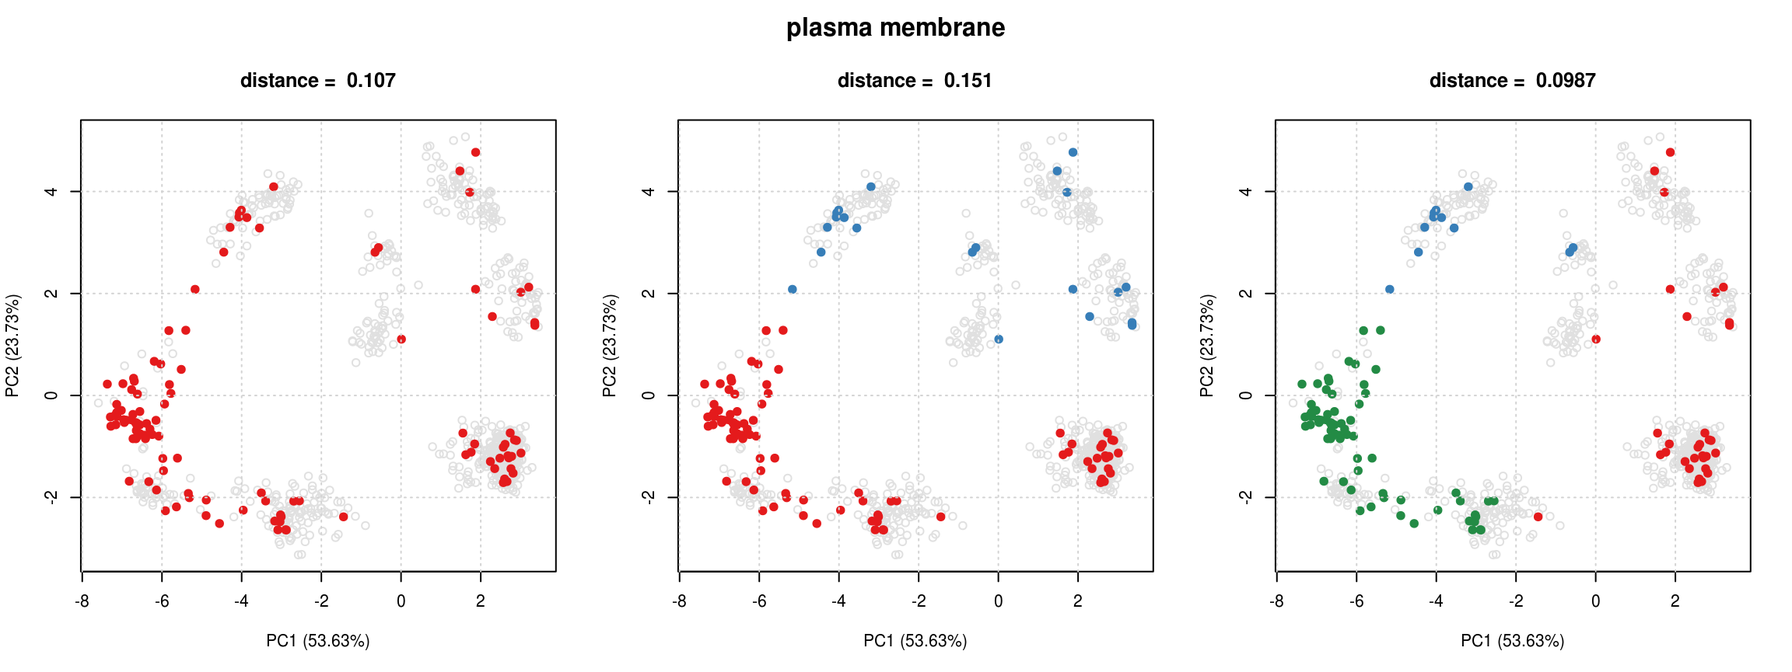
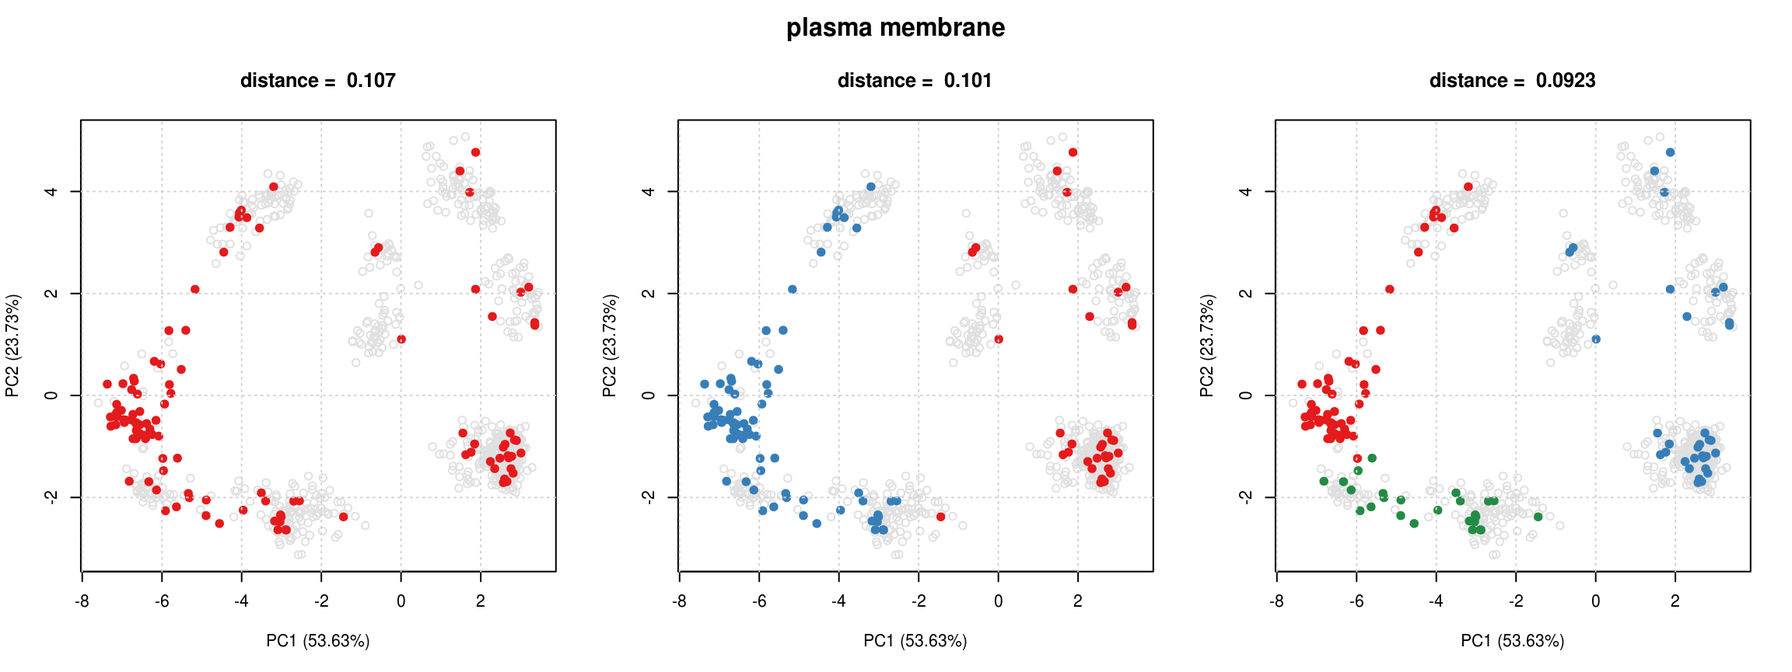
Deploy lgatto/pRoloc to github.com/lgatto/pRoloc.git:gh-pages

diff --git a/reference/plsdaClassification.html b/reference/plsdaClassification.html
@@ -194,8 +194,8 @@ from package <code>caret</code>.</p></td>
 #&gt; 
 #&gt; function (x, ...) 
 #&gt; standardGeneric("params")
-#&gt; &lt;bytecode: 0x82aed10&gt;
-#&gt; &lt;environment: 0x82a9678&gt;
+#&gt; &lt;bytecode: 0x62a3e00&gt;
+#&gt; &lt;environment: 0x62aa148&gt;
 #&gt; Methods may be defined for arguments: x
 #&gt; Use  showMethods("params")  for currently available ones.</div><div class='input'><span class='fu'><a href='https://www.rdocumentation.org/packages/graphics/topics/plot'>plot</a></span>(<span class='no'>params</span>)</div><div class='output co'>#&gt; <span class='error'>Error in (function (classes, fdef, mtable) {    methods &lt;- .findInheritedMethods(classes, fdef, mtable)    if (length(methods) == 1L)         return(methods[[1L]])    else if (length(methods) == 0L) {        cnames &lt;- paste0("\"", vapply(classes, as.character,             ""), "\"", collapse = ", ")        stop(gettextf("unable to find an inherited method for function %s for signature %s",             sQuote(fdef@generic), sQuote(cnames)), domain = NA)    }    else stop("Internal error in finding inherited methods; didn't return a unique method",         domain = NA)})(list("numeric"), new("standardGeneric", .Data = function (x,     ...) standardGeneric("params"), generic = structure("params", package = "S4Vectors"),     package = "S4Vectors", group = list(), valueClass = character(0),     signature = "x", default = NULL, skeleton = (function (x,         ...)     stop("invalid call in method dispatch to 'params' (no default method)",         domain = NA))(x, ...)), &lt;environment&gt;): unable to find an inherited method for function ‘params’ for signature ‘"numeric"’</span></div><div class='input'><span class='fu'><a href='GenRegRes-class.html'>f1Count</a></span>(<span class='no'>params</span>)</div><div class='output co'>#&gt; <span class='error'>Error in (function (classes, fdef, mtable) {    methods &lt;- .findInheritedMethods(classes, fdef, mtable)    if (length(methods) == 1L)         return(methods[[1L]])    else if (length(methods) == 0L) {        cnames &lt;- paste0("\"", vapply(classes, as.character,             ""), "\"", collapse = ", ")        stop(gettextf("unable to find an inherited method for function %s for signature %s",             sQuote(fdef@generic), sQuote(cnames)), domain = NA)    }    else stop("Internal error in finding inherited methods; didn't return a unique method",         domain = NA)})(list(structure("standardGeneric", package = "methods")), new("standardGeneric",     .Data = function (object, ...)     standardGeneric("f1Count"), generic = structure("f1Count", package = "pRoloc"),     package = "pRoloc", group = list(), valueClass = character(0),     signature = "object", default = NULL, skeleton = (function (object,         ...)     stop("invalid call in method dispatch to 'f1Count' (no default method)",         domain = NA))(object, ...)), &lt;environment&gt;): unable to find an inherited method for function ‘f1Count’ for signature ‘"standardGeneric"’</span></div><div class='input'><span class='fu'><a href='GenRegRes-class.html'>levelPlot</a></span>(<span class='no'>params</span>)</div><div class='output co'>#&gt; <span class='error'>Error in (function (classes, fdef, mtable) {    methods &lt;- .findInheritedMethods(classes, fdef, mtable)    if (length(methods) == 1L)         return(methods[[1L]])    else if (length(methods) == 0L) {        cnames &lt;- paste0("\"", vapply(classes, as.character,             ""), "\"", collapse = ", ")        stop(gettextf("unable to find an inherited method for function %s for signature %s",             sQuote(fdef@generic), sQuote(cnames)), domain = NA)    }    else stop("Internal error in finding inherited methods; didn't return a unique method",         domain = NA)})(list(structure("standardGeneric", package = "methods")), new("standardGeneric",     .Data = function (object, ...)     standardGeneric("levelPlot"), generic = structure("levelPlot", package = "pRoloc"),     package = "pRoloc", group = list(), valueClass = character(0),     signature = "object", default = NULL, skeleton = (function (object,         ...)     stop("invalid call in method dispatch to 'levelPlot' (no default method)",         domain = NA))(object, ...)), &lt;environment&gt;): unable to find an inherited method for function ‘levelPlot’ for signature ‘"standardGeneric"’</span></div><div class='input'><span class='fu'><a href='GenRegRes-class.html'>getParams</a></span>(<span class='no'>params</span>)</div><div class='output co'>#&gt; <span class='error'>Error in (function (classes, fdef, mtable) {    methods &lt;- .findInheritedMethods(classes, fdef, mtable)    if (length(methods) == 1L)         return(methods[[1L]])    else if (length(methods) == 0L) {        cnames &lt;- paste0("\"", vapply(classes, as.character,             ""), "\"", collapse = ", ")        stop(gettextf("unable to find an inherited method for function %s for signature %s",             sQuote(fdef@generic), sQuote(cnames)), domain = NA)    }    else stop("Internal error in finding inherited methods; didn't return a unique method",         domain = NA)})(list(structure("standardGeneric", package = "methods")), new("standardGeneric",     .Data = function (object, ...)     standardGeneric("getParams"), generic = structure("getParams", package = "pRoloc"),     package = "pRoloc", group = list(), valueClass = character(0),     signature = "object", default = NULL, skeleton = (function (object,         ...)     stop("invalid call in method dispatch to 'getParams' (no default method)",         domain = NA))(object, ...)), &lt;environment&gt;): unable to find an inherited method for function ‘getParams’ for signature ‘"standardGeneric"’</span></div><div class='input'><span class='no'>res</span> <span class='kw'>&lt;-</span> <span class='fu'>plsdaClassification</span>(<span class='no'>dunkley2006</span>, <span class='no'>params</span>)</div><div class='output co'>#&gt; <span class='error'>Error in (function (classes, fdef, mtable) {    methods &lt;- .findInheritedMethods(classes, fdef, mtable)    if (length(methods) == 1L)         return(methods[[1L]])    else if (length(methods) == 0L) {        cnames &lt;- paste0("\"", vapply(classes, as.character,             ""), "\"", collapse = ", ")        stop(gettextf("unable to find an inherited method for function %s for signature %s",             sQuote(fdef@generic), sQuote(cnames)), domain = NA)    }    else stop("Internal error in finding inherited methods; didn't return a unique method",         domain = NA)})(list(structure("standardGeneric", package = "methods")), new("standardGeneric",     .Data = function (object, ...)     standardGeneric("getParams"), generic = structure("getParams", package = "pRoloc"),     package = "pRoloc", group = list(), valueClass = character(0),     signature = "object", default = NULL, skeleton = (function (object,         ...)     stop("invalid call in method dispatch to 'getParams' (no default method)",         domain = NA))(object, ...)), &lt;environment&gt;): unable to find an inherited method for function ‘getParams’ for signature ‘"standardGeneric"’</span></div><div class='input'><span class='fu'><a href='getPredictions.html'>getPredictions</a></span>(<span class='no'>res</span>, <span class='kw'>fcol</span> <span class='kw'>=</span> <span class='st'>"plsda"</span>)</div><div class='output co'>#&gt; <span class='error'>Error in fData(object): object 'res' not found</span></div><div class='input'><span class='fu'><a href='getPredictions.html'>getPredictions</a></span>(<span class='no'>res</span>, <span class='kw'>fcol</span> <span class='kw'>=</span> <span class='st'>"plsda"</span>, <span class='kw'>t</span> <span class='kw'>=</span> <span class='fl'>0.9</span>)</div><div class='output co'>#&gt; <span class='error'>Error in fData(object): object 'res' not found</span></div><div class='input'><span class='fu'><a href='plot2D.html'>plot2D</a></span>(<span class='no'>res</span>, <span class='kw'>fcol</span> <span class='kw'>=</span> <span class='st'>"plsda"</span>)</div><div class='output co'>#&gt; <span class='error'>Error in plot2D(res, fcol = "plsda"): object 'res' not found</span></div></pre>
   </div>

diff --git a/articles/v01-pRoloc-tutorial.html b/articles/v01-pRoloc-tutorial.html
@@ -306,7 +306,7 @@ document.addEventListener("DOMContentLoaded", function() {
 ## experimentData: use 'experimentData(object)'
 ## Annotation:  
 ## - - - Processing information - - -
-## Quantitation data loaded: Fri Nov 30 18:18:31 2018  using readMSnSet. 
+## Quantitation data loaded: Fri Nov 30 18:25:26 2018  using readMSnSet. 
 ##  MSnbase version: 2.9.1</code></pre>
 </div>
 </div>
@@ -466,8 +466,8 @@ document.addEventListener("DOMContentLoaded", function() {
 <pre><code>## - - - Processing information - - -
 ## Data loaded: Wed May 11 18:54:39 2011 
 ## Updated from version 0.3.0 to 0.3.1 [Fri Jul  8 20:23:25 2016] 
-## iTRAQ4 quantification by trapezoidation: Fri Nov 30 18:18:33 2018 
-## Normalised (sum): Fri Nov 30 18:18:33 2018 
+## iTRAQ4 quantification by trapezoidation: Fri Nov 30 18:25:28 2018 
+## Normalised (sum): Fri Nov 30 18:25:28 2018 
 ##  MSnbase version: 1.1.22</code></pre>
 <div class="sourceCode" id="cb46"><pre class="sourceCode r"><code class="sourceCode r"><a class="sourceLine" id="cb46-1" data-line-number="1"><span class="kw"><a href="https://www.rdocumentation.org/packages/utils/topics/head">head</a></span>(<span class="kw">exprs</span>(itraqnorm), <span class="dt">n =</span> <span class="dv">3</span>)</a></code></pre></div>
 <pre><code>##     iTRAQ4.114 iTRAQ4.115 iTRAQ4.116 iTRAQ4.117
@@ -749,7 +749,7 @@ Assessing parameter optimisation. On the left, we see the respective distributio
 <a class="sourceLine" id="cb86-4" data-line-number="4"><span class="kw"><a href="https://www.rdocumentation.org/packages/MSnbase/topics/pSet-class">processingData</a></span>(svmres)</a></code></pre></div>
 <pre><code>## - - - Processing information - - -
 ## Added markers from  'mrk' marker vector. Thu Jul 16 22:53:44 2015 
-## Performed svm prediction (sigma=0.1 cost=0.5) Fri Nov 30 18:18:39 2018 
+## Performed svm prediction (sigma=0.1 cost=0.5) Fri Nov 30 18:25:34 2018 
 ##  MSnbase version: 1.17.12</code></pre>
 <div class="sourceCode" id="cb88"><pre class="sourceCode r"><code class="sourceCode r"><a class="sourceLine" id="cb88-1" data-line-number="1"><span class="kw"><a href="https://www.rdocumentation.org/packages/utils/topics/head">tail</a></span>(<span class="kw">fvarLabels</span>(svmres), <span class="dv">4</span>)</a></code></pre></div>
 <pre><code>## [1] "markers"    "markers.tl" "svm"        "svm.scores"</code></pre>
@@ -851,8 +851,8 @@ Organelle-specific SVM score distributions.
 ## Annotation:  
 ## - - - Processing information - - -
 ## Added markers from  'mrk' marker vector. Thu Jul 16 22:53:44 2015 
-## Performed svm prediction (sigma=0.1 cost=0.5) Fri Nov 30 18:18:39 2018 
-## Added svm predictions according to thresholds: ER = 0.84, Golgi = 0.63, mitochondrion = 0.75, PM = 0.76 Fri Nov 30 18:18:39 2018 
+## Performed svm prediction (sigma=0.1 cost=0.5) Fri Nov 30 18:25:34 2018 
+## Added svm predictions according to thresholds: ER = 0.84, Golgi = 0.63, mitochondrion = 0.75, PM = 0.76 Fri Nov 30 18:25:35 2018 
 ##  MSnbase version: 1.17.12</code></pre>
 <p>We can now visualise these results using the plotting functions presented in section @ref(sec:usml), as shown on figure @ref(fig:svmres). We clearly see that besides the organelle marker clusters that have been assigned high confidence members, many other proteins have substantially lower prediction scores.</p>
 <div class="sourceCode" id="cb102"><pre class="sourceCode r"><code class="sourceCode r"><a class="sourceLine" id="cb102-1" data-line-number="1">ptsze &lt;-<span class="st"> </span><span class="kw"><a href="https://www.rdocumentation.org/packages/base/topics/Log">exp</a></span>(<span class="kw">fData</span>(svmres)<span class="op">$</span>svm.scores) <span class="op">-</span><span class="st"> </span><span class="dv">1</span></a>

diff --git a/reference/getPredictions.html b/reference/getPredictions.html
@@ -225,8 +225,8 @@ thresholds.</p></div>
 #&gt; Loaded on Thu Jul 16 22:53:08 2015. 
 #&gt; Normalised to sum of intensities. 
 #&gt; Added markers from  'mrk' marker vector. Thu Jul 16 22:53:08 2015 
-#&gt; Performed svm prediction (cost=0.5 sigma=0.1) Fri Nov 30 18:17:11 2018 
-#&gt; Added svm predictions according to global threshold = 0 Fri Nov 30 18:17:11 2018 
+#&gt; Performed svm prediction (cost=0.5 sigma=0.1) Fri Nov 30 18:24:05 2018 
+#&gt; Added svm predictions according to global threshold = 0 Fri Nov 30 18:24:05 2018 
 #&gt;  MSnbase version: 1.17.12 </div><div class='input'><span class='fu'>getPredictions</span>(<span class='no'>res</span>, <span class='kw'>fcol</span> <span class='kw'>=</span> <span class='st'>"svm"</span>, <span class='kw'>t</span> <span class='kw'>=</span> <span class='fl'>.9</span>) <span class='co'>## single threshold </span></div><div class='output co'>#&gt; ans
 #&gt;      ER lumen   ER membrane         Golgi Mitochondrion       Plastid 
 #&gt;            14            56            28            55            20 
@@ -250,8 +250,8 @@ thresholds.</p></div>
 #&gt; Loaded on Thu Jul 16 22:53:08 2015. 
 #&gt; Normalised to sum of intensities. 
 #&gt; Added markers from  'mrk' marker vector. Thu Jul 16 22:53:08 2015 
-#&gt; Performed svm prediction (cost=0.5 sigma=0.1) Fri Nov 30 18:17:11 2018 
-#&gt; Added svm predictions according to global threshold = 0.9 Fri Nov 30 18:17:11 2018 
+#&gt; Performed svm prediction (cost=0.5 sigma=0.1) Fri Nov 30 18:24:05 2018 
+#&gt; Added svm predictions according to global threshold = 0.9 Fri Nov 30 18:24:05 2018 
 #&gt;  MSnbase version: 1.17.12 </div><div class='input'><span class='co'>## 50% top predictions per class</span>
 <span class='no'>ts</span> <span class='kw'>&lt;-</span> <span class='fu'><a href='orgQuants.html'>orgQuants</a></span>(<span class='no'>res</span>, <span class='kw'>fcol</span> <span class='kw'>=</span> <span class='st'>"svm"</span>, <span class='kw'>t</span> <span class='kw'>=</span> <span class='fl'>.5</span>)</div><div class='output co'>#&gt;      ER lumen   ER membrane         Golgi Mitochondrion       Plastid 
 #&gt;     0.2995766     0.8368847     0.7805362     0.7484314     0.7746137 
@@ -279,8 +279,8 @@ thresholds.</p></div>
 #&gt; Loaded on Thu Jul 16 22:53:08 2015. 
 #&gt; Normalised to sum of intensities. 
 #&gt; Added markers from  'mrk' marker vector. Thu Jul 16 22:53:08 2015 
-#&gt; Performed svm prediction (cost=0.5 sigma=0.1) Fri Nov 30 18:17:11 2018 
-#&gt; Added svm predictions according to thresholds: ER lumen = 0.30, ER membrane = 0.84, Golgi = 0.78, Mitochondrion = 0.75, Plastid = 0.77, PM = 0.73, Ribosome = 0.54, TGN = 0.53, vacuole = 0.57 Fri Nov 30 18:17:11 2018 
+#&gt; Performed svm prediction (cost=0.5 sigma=0.1) Fri Nov 30 18:24:05 2018 
+#&gt; Added svm predictions according to thresholds: ER lumen = 0.30, ER membrane = 0.84, Golgi = 0.78, Mitochondrion = 0.75, Plastid = 0.77, PM = 0.73, Ribosome = 0.54, TGN = 0.53, vacuole = 0.57 Fri Nov 30 18:24:05 2018 
 #&gt;  MSnbase version: 1.17.12 </div></pre>
   </div>
   <div class="col-md-3 hidden-xs hidden-sm" id="sidebar">

diff --git a/reference/perTurboClassification.html b/reference/perTurboClassification.html
@@ -258,8 +258,8 @@ Default is <code>markers</code>.</p></td>
 #&gt; Loaded on Thu Jul 16 22:53:08 2015. 
 #&gt; Normalised to sum of intensities. 
 #&gt; Added markers from  'mrk' marker vector. Thu Jul 16 22:53:08 2015 
-#&gt; Performed perTurbo prediction (sigma=0.1 pRegul=4) Fri Nov 30 18:17:55 2018 
-#&gt; Added perTurbo predictions according to global threshold = 0 Fri Nov 30 18:17:55 2018 
+#&gt; Performed perTurbo prediction (sigma=0.1 pRegul=4) Fri Nov 30 18:24:51 2018 
+#&gt; Added perTurbo predictions according to global threshold = 0 Fri Nov 30 18:24:51 2018 
 #&gt;  MSnbase version: 1.17.12 </div><div class='input'><span class='fu'><a href='getPredictions.html'>getPredictions</a></span>(<span class='no'>res</span>, <span class='kw'>fcol</span> <span class='kw'>=</span> <span class='st'>"perTurbo"</span>, <span class='kw'>t</span> <span class='kw'>=</span> <span class='fl'>0.75</span>)</div><div class='output co'>#&gt; ans
 #&gt;      ER lumen   ER membrane         Golgi Mitochondrion       Plastid 
 #&gt;            14            45            28            55            20 
@@ -283,8 +283,8 @@ Default is <code>markers</code>.</p></td>
 #&gt; Loaded on Thu Jul 16 22:53:08 2015. 
 #&gt; Normalised to sum of intensities. 
 #&gt; Added markers from  'mrk' marker vector. Thu Jul 16 22:53:08 2015 
-#&gt; Performed perTurbo prediction (sigma=0.1 pRegul=4) Fri Nov 30 18:17:55 2018 
-#&gt; Added perTurbo predictions according to global threshold = 0.75 Fri Nov 30 18:17:55 2018 
+#&gt; Performed perTurbo prediction (sigma=0.1 pRegul=4) Fri Nov 30 18:24:51 2018 
+#&gt; Added perTurbo predictions according to global threshold = 0.75 Fri Nov 30 18:24:51 2018 
 #&gt;  MSnbase version: 1.17.12 </div><div class='input'><span class='fu'><a href='plot2D.html'>plot2D</a></span>(<span class='no'>res</span>, <span class='kw'>fcol</span> <span class='kw'>=</span> <span class='st'>"perTurbo"</span>)</div><div class='img'><img src='perTurboClassification-3.png' alt='' width='700' height='433' /></div></pre>
   </div>
   <div class="col-md-3 hidden-xs hidden-sm" id="sidebar">

diff --git a/reference/nbClassification.html b/reference/nbClassification.html
@@ -225,8 +225,8 @@ Default is <code>markers</code>.</p></td>
 #&gt; Loaded on Thu Jul 16 22:53:08 2015. 
 #&gt; Normalised to sum of intensities. 
 #&gt; Added markers from  'mrk' marker vector. Thu Jul 16 22:53:08 2015 
-#&gt; Performed naiveBayes prediction (laplace=5) Fri Nov 30 18:17:37 2018 
-#&gt; Added naiveBayes predictions according to global threshold = 0 Fri Nov 30 18:17:37 2018 
+#&gt; Performed naiveBayes prediction (laplace=5) Fri Nov 30 18:24:34 2018 
+#&gt; Added naiveBayes predictions according to global threshold = 0 Fri Nov 30 18:24:34 2018 
 #&gt;  MSnbase version: 1.17.12 </div><div class='input'><span class='fu'><a href='getPredictions.html'>getPredictions</a></span>(<span class='no'>res</span>, <span class='kw'>fcol</span> <span class='kw'>=</span> <span class='st'>"naiveBayes"</span>, <span class='kw'>t</span> <span class='kw'>=</span> <span class='fl'>1</span>)</div><div class='output co'>#&gt; ans
 #&gt;      ER lumen   ER membrane         Golgi Mitochondrion       Plastid 
 #&gt;            14            45            69            61            43 
@@ -250,8 +250,8 @@ Default is <code>markers</code>.</p></td>
 #&gt; Loaded on Thu Jul 16 22:53:08 2015. 
 #&gt; Normalised to sum of intensities. 
 #&gt; Added markers from  'mrk' marker vector. Thu Jul 16 22:53:08 2015 
-#&gt; Performed naiveBayes prediction (laplace=5) Fri Nov 30 18:17:37 2018 
-#&gt; Added naiveBayes predictions according to global threshold = 1 Fri Nov 30 18:17:37 2018 
+#&gt; Performed naiveBayes prediction (laplace=5) Fri Nov 30 18:24:34 2018 
+#&gt; Added naiveBayes predictions according to global threshold = 1 Fri Nov 30 18:24:34 2018 
 #&gt;  MSnbase version: 1.17.12 </div><div class='input'><span class='fu'><a href='plot2D.html'>plot2D</a></span>(<span class='no'>res</span>, <span class='kw'>fcol</span> <span class='kw'>=</span> <span class='st'>"naiveBayes"</span>)</div><div class='img'><img src='nbClassification-3.png' alt='' width='700' height='433' /></div></pre>
   </div>
   <div class="col-md-3 hidden-xs hidden-sm" id="sidebar">

diff --git a/reference/nnetClassification.html b/reference/nnetClassification.html
@@ -246,8 +246,8 @@ package <code>nnet</code>.</p></td>
 #&gt; Loaded on Thu Jul 16 22:53:08 2015. 
 #&gt; Normalised to sum of intensities. 
 #&gt; Added markers from  'mrk' marker vector. Thu Jul 16 22:53:08 2015 
-#&gt; Performed nnet prediction (decay=1e-05 size=10) Fri Nov 30 18:17:44 2018 
-#&gt; Added nnet predictions according to global threshold = 0 Fri Nov 30 18:17:44 2018 
+#&gt; Performed nnet prediction (decay=1e-05 size=10) Fri Nov 30 18:24:40 2018 
+#&gt; Added nnet predictions according to global threshold = 0 Fri Nov 30 18:24:40 2018 
 #&gt;  MSnbase version: 1.17.12 </div><div class='input'><span class='fu'><a href='getPredictions.html'>getPredictions</a></span>(<span class='no'>res</span>, <span class='kw'>fcol</span> <span class='kw'>=</span> <span class='st'>"nnet"</span>, <span class='kw'>t</span> <span class='kw'>=</span> <span class='fl'>0.75</span>)</div><div class='output co'>#&gt; ans
 #&gt;      ER lumen   ER membrane         Golgi Mitochondrion       Plastid 
 #&gt;            27           168            94           107            50 
@@ -271,8 +271,8 @@ package <code>nnet</code>.</p></td>
 #&gt; Loaded on Thu Jul 16 22:53:08 2015. 
 #&gt; Normalised to sum of intensities. 
 #&gt; Added markers from  'mrk' marker vector. Thu Jul 16 22:53:08 2015 
-#&gt; Performed nnet prediction (decay=1e-05 size=10) Fri Nov 30 18:17:44 2018 
-#&gt; Added nnet predictions according to global threshold = 0.75 Fri Nov 30 18:17:44 2018 
+#&gt; Performed nnet prediction (decay=1e-05 size=10) Fri Nov 30 18:24:40 2018 
+#&gt; Added nnet predictions according to global threshold = 0.75 Fri Nov 30 18:24:40 2018 
 #&gt;  MSnbase version: 1.17.12 </div><div class='input'><span class='fu'><a href='plot2D.html'>plot2D</a></span>(<span class='no'>res</span>, <span class='kw'>fcol</span> <span class='kw'>=</span> <span class='st'>"nnet"</span>)</div><div class='img'><img src='nnetClassification-3.png' alt='' width='700' height='433' /></div></pre>
   </div>
   <div class="col-md-3 hidden-xs hidden-sm" id="sidebar">

diff --git a/reference/rfClassification.html b/reference/rfClassification.html
@@ -225,8 +225,8 @@ Default is <code>markers</code>.</p></td>
 #&gt; Loaded on Thu Jul 16 22:53:08 2015. 
 #&gt; Normalised to sum of intensities. 
 #&gt; Added markers from  'mrk' marker vector. Thu Jul 16 22:53:08 2015 
-#&gt; Performed random forest prediction (mtry=5) Fri Nov 30 18:18:10 2018 
-#&gt; Added rf predictions according to global threshold = 0 Fri Nov 30 18:18:10 2018 
+#&gt; Performed random forest prediction (mtry=5) Fri Nov 30 18:25:06 2018 
+#&gt; Added rf predictions according to global threshold = 0 Fri Nov 30 18:25:06 2018 
 #&gt;  MSnbase version: 1.17.12 </div><div class='input'><span class='fu'><a href='getPredictions.html'>getPredictions</a></span>(<span class='no'>res</span>, <span class='kw'>fcol</span> <span class='kw'>=</span> <span class='st'>"rf"</span>, <span class='kw'>t</span> <span class='kw'>=</span> <span class='fl'>0.75</span>)</div><div class='output co'>#&gt; ans
 #&gt;      ER lumen   ER membrane         Golgi Mitochondrion       Plastid 
 #&gt;            14           150            78            92            47 
@@ -250,8 +250,8 @@ Default is <code>markers</code>.</p></td>
 #&gt; Loaded on Thu Jul 16 22:53:08 2015. 
 #&gt; Normalised to sum of intensities. 
 #&gt; Added markers from  'mrk' marker vector. Thu Jul 16 22:53:08 2015 
-#&gt; Performed random forest prediction (mtry=5) Fri Nov 30 18:18:10 2018 
-#&gt; Added rf predictions according to global threshold = 0.75 Fri Nov 30 18:18:10 2018 
+#&gt; Performed random forest prediction (mtry=5) Fri Nov 30 18:25:06 2018 
+#&gt; Added rf predictions according to global threshold = 0.75 Fri Nov 30 18:25:06 2018 
 #&gt;  MSnbase version: 1.17.12 </div><div class='input'><span class='fu'><a href='plot2D.html'>plot2D</a></span>(<span class='no'>res</span>, <span class='kw'>fcol</span> <span class='kw'>=</span> <span class='st'>"rf"</span>)</div><div class='img'><img src='rfClassification-3.png' alt='' width='700' height='433' /></div></pre>
   </div>
   <div class="col-md-3 hidden-xs hidden-sm" id="sidebar">

diff --git a/reference/svmClassification.html b/reference/svmClassification.html
@@ -231,8 +231,8 @@ package <code>e1071</code>.</p></td>
 #&gt; Loaded on Thu Jul 16 22:53:08 2015. 
 #&gt; Normalised to sum of intensities. 
 #&gt; Added markers from  'mrk' marker vector. Thu Jul 16 22:53:08 2015 
-#&gt; Performed svm prediction (sigma=0.1 cost=1) Fri Nov 30 18:18:15 2018 
-#&gt; Added svm predictions according to global threshold = 0 Fri Nov 30 18:18:15 2018 
+#&gt; Performed svm prediction (sigma=0.1 cost=1) Fri Nov 30 18:25:12 2018 
+#&gt; Added svm predictions according to global threshold = 0 Fri Nov 30 18:25:12 2018 
 #&gt;  MSnbase version: 1.17.12 </div><div class='input'><span class='fu'><a href='getPredictions.html'>getPredictions</a></span>(<span class='no'>res</span>, <span class='kw'>fcol</span> <span class='kw'>=</span> <span class='st'>"svm"</span>, <span class='kw'>t</span> <span class='kw'>=</span> <span class='fl'>0.75</span>)</div><div class='output co'>#&gt; ans
 #&gt;      ER lumen   ER membrane         Golgi Mitochondrion       Plastid 
 #&gt;            14           145            70            93            42 
@@ -256,8 +256,8 @@ package <code>e1071</code>.</p></td>
 #&gt; Loaded on Thu Jul 16 22:53:08 2015. 
 #&gt; Normalised to sum of intensities. 
 #&gt; Added markers from  'mrk' marker vector. Thu Jul 16 22:53:08 2015 
-#&gt; Performed svm prediction (sigma=0.1 cost=1) Fri Nov 30 18:18:15 2018 
-#&gt; Added svm predictions according to global threshold = 0.75 Fri Nov 30 18:18:15 2018 
+#&gt; Performed svm prediction (sigma=0.1 cost=1) Fri Nov 30 18:25:12 2018 
+#&gt; Added svm predictions according to global threshold = 0.75 Fri Nov 30 18:25:12 2018 
 #&gt;  MSnbase version: 1.17.12 </div><div class='input'><span class='fu'><a href='plot2D.html'>plot2D</a></span>(<span class='no'>res</span>, <span class='kw'>fcol</span> <span class='kw'>=</span> <span class='st'>"svm"</span>)</div><div class='img'><img src='svmClassification-3.png' alt='' width='700' height='433' /></div></pre>
   </div>
   <div class="col-md-3 hidden-xs hidden-sm" id="sidebar">

diff --git a/reference/ksvmClassification.html b/reference/ksvmClassification.html
@@ -227,8 +227,8 @@ package <code>kernlab</code>.</p></td>
 #&gt; Loaded on Thu Jul 16 22:53:08 2015. 
 #&gt; Normalised to sum of intensities. 
 #&gt; Added markers from  'mrk' marker vector. Thu Jul 16 22:53:08 2015 
-#&gt; Performed ksvm prediction (cost=16) Fri Nov 30 18:17:31 2018 
-#&gt; Added ksvm predictions according to global threshold = 0 Fri Nov 30 18:17:31 2018 
+#&gt; Performed ksvm prediction (cost=16) Fri Nov 30 18:24:27 2018 
+#&gt; Added ksvm predictions according to global threshold = 0 Fri Nov 30 18:24:27 2018 
 #&gt;  MSnbase version: 1.17.12 </div><div class='input'><span class='fu'><a href='getPredictions.html'>getPredictions</a></span>(<span class='no'>res</span>, <span class='kw'>fcol</span> <span class='kw'>=</span> <span class='st'>"ksvm"</span>, <span class='kw'>t</span> <span class='kw'>=</span> <span class='fl'>0.75</span>)</div><div class='output co'>#&gt; ans
 #&gt;      ER lumen   ER membrane         Golgi Mitochondrion       Plastid 
 #&gt;            14           154            65            55            20 
@@ -252,8 +252,8 @@ package <code>kernlab</code>.</p></td>
 #&gt; Loaded on Thu Jul 16 22:53:08 2015. 
 #&gt; Normalised to sum of intensities. 
 #&gt; Added markers from  'mrk' marker vector. Thu Jul 16 22:53:08 2015 
-#&gt; Performed ksvm prediction (cost=16) Fri Nov 30 18:17:31 2018 
-#&gt; Added ksvm predictions according to global threshold = 0.75 Fri Nov 30 18:17:31 2018 
+#&gt; Performed ksvm prediction (cost=16) Fri Nov 30 18:24:27 2018 
+#&gt; Added ksvm predictions according to global threshold = 0.75 Fri Nov 30 18:24:27 2018 
 #&gt;  MSnbase version: 1.17.12 </div><div class='input'><span class='fu'><a href='plot2D.html'>plot2D</a></span>(<span class='no'>res</span>, <span class='kw'>fcol</span> <span class='kw'>=</span> <span class='st'>"ksvm"</span>)</div><div class='img'><img src='ksvmClassification-3.png' alt='' width='700' height='433' /></div></pre>
   </div>
   <div class="col-md-3 hidden-xs hidden-sm" id="sidebar">

diff --git a/reference/knnClassification.html b/reference/knnClassification.html
@@ -225,8 +225,8 @@ package <code>class</code>.</p></td>
 #&gt; Loaded on Thu Jul 16 22:53:08 2015. 
 #&gt; Normalised to sum of intensities. 
 #&gt; Added markers from  'mrk' marker vector. Thu Jul 16 22:53:08 2015 
-#&gt; Performed knn prediction (k=3) Fri Nov 30 18:17:15 2018 
-#&gt; Added knn predictions according to global threshold = 0 Fri Nov 30 18:17:15 2018 
+#&gt; Performed knn prediction (k=3) Fri Nov 30 18:24:09 2018 
+#&gt; Added knn predictions according to global threshold = 0 Fri Nov 30 18:24:09 2018 
 #&gt;  MSnbase version: 1.17.12 </div><div class='input'><span class='fu'><a href='getPredictions.html'>getPredictions</a></span>(<span class='no'>res</span>, <span class='kw'>fcol</span> <span class='kw'>=</span> <span class='st'>"knn"</span>, <span class='kw'>t</span> <span class='kw'>=</span> <span class='fl'>0.75</span>)</div><div class='output co'>#&gt; ans
 #&gt;      ER lumen   ER membrane         Golgi Mitochondrion       Plastid 
 #&gt;            15           173            83           103            49 
@@ -250,8 +250,8 @@ package <code>class</code>.</p></td>
 #&gt; Loaded on Thu Jul 16 22:53:08 2015. 
 #&gt; Normalised to sum of intensities. 
 #&gt; Added markers from  'mrk' marker vector. Thu Jul 16 22:53:08 2015 
-#&gt; Performed knn prediction (k=3) Fri Nov 30 18:17:15 2018 
-#&gt; Added knn predictions according to global threshold = 0.75 Fri Nov 30 18:17:15 2018 
+#&gt; Performed knn prediction (k=3) Fri Nov 30 18:24:09 2018 
+#&gt; Added knn predictions according to global threshold = 0.75 Fri Nov 30 18:24:09 2018 
 #&gt;  MSnbase version: 1.17.12 </div><div class='input'><span class='fu'><a href='plot2D.html'>plot2D</a></span>(<span class='no'>res</span>, <span class='kw'>fcol</span> <span class='kw'>=</span> <span class='st'>"knn"</span>)</div><div class='img'><img src='knnClassification-3.png' alt='' width='700' height='433' /></div></pre>
   </div>
   <div class="col-md-3 hidden-xs hidden-sm" id="sidebar">

diff --git a/articles/v05-pRoloc-transfer-learning.html b/articles/v05-pRoloc-transfer-learning.html
@@ -167,7 +167,7 @@ document.addEventListener("DOMContentLoaded", function() {
 ##  Using the 'ENSEMBL_MART_ENSEMBL' BioMart database
 ##  Using the 'hsapiens_gene_ensembl' dataset
 ##  Using 'uniprotswissprot' as filter
-##  Created on Fri Nov 30 18:21:51 2018</code></pre>
+##  Created on Fri Nov 30 18:28:47 2018</code></pre>
 <p>The <em>setAnnotationParams</em> function automatically sets the annotation parameters globally so that the <code>ap</code> object does not need to be explicitly set later on. The default parameters can be retrieved with <em>getAnnotationParams</em>.</p>
 </div>
 <div id="sec:auxgo" class="section level3">
@@ -193,7 +193,7 @@ document.addEventListener("DOMContentLoaded", function() {
 ## experimentData: use 'experimentData(object)'
 ## Annotation:  
 ## - - - Processing information - - -
-## Constructed GO set using cellular_component namespace [Fri Nov 30 18:22:12 2018] 
+## Constructed GO set using cellular_component namespace [Fri Nov 30 18:28:57 2018] 
 ##  MSnbase version: 2.9.1</code></pre>
 <div class="sourceCode" id="cb13"><pre class="sourceCode r"><code class="sourceCode r"><a class="sourceLine" id="cb13-1" data-line-number="1"><span class="kw">exprs</span>(andygoset)[<span class="dv">1</span><span class="op">:</span><span class="dv">7</span>, <span class="dv">1</span><span class="op">:</span><span class="dv">4</span>]</a></code></pre></div>
 <pre><code>##        GO:0016020 GO:0016021 GO:0005783 GO:0005730

diff --git a/articles/v04-pRoloc-goannotations.html b/articles/v04-pRoloc-goannotations.html
@@ -210,13 +210,13 @@ document.addEventListener("DOMContentLoaded", function() {
 ##  nrow =  114 
 ## k's tested: 1 2 3 
 ##   Size:  114 
-##   Size:  93, 21 
-##   Size:  33, 11, 70 
+##   Size:  35, 79 
+##   Size:  55, 34, 25 
 ## Clusters info:
 ##       ks.mean    mean ks.norm     norm
 ## k = 1       1  0.5175       1  0.10674
-## k = 2       2  0.4967       2  0.15102
-## k = 3       3 *0.2959       3 *0.09873</code></pre>
+## k = 2       2  0.3733       2  0.10149
+## k = 3       3 *0.3049       3 *0.09232</code></pre>
 <p>We can use the <code>plotClustDist</code> and <code>plotComponents</code> to visualise these results.</p>
 <div class="sourceCode" id="cb14"><pre class="sourceCode r"><code class="sourceCode r"><a class="sourceLine" id="cb14-1" data-line-number="1">## Plot normalised distances</a>
 <a class="sourceLine" id="cb14-2" data-line-number="2"><span class="kw"><a href="https://www.rdocumentation.org/packages/graphics/topics/plot">plot</a></span>(dd, <span class="dt">p =</span> <span class="dv">1</span><span class="op">/</span><span class="dv">3</span>)</a></code></pre></div>
